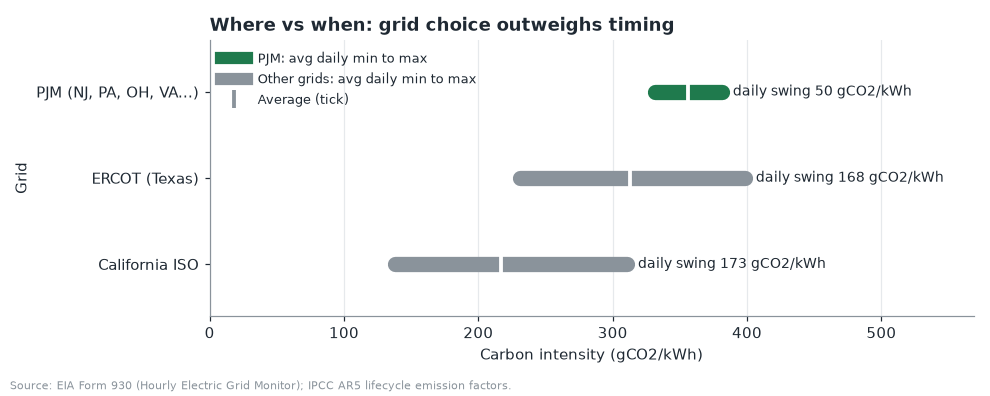
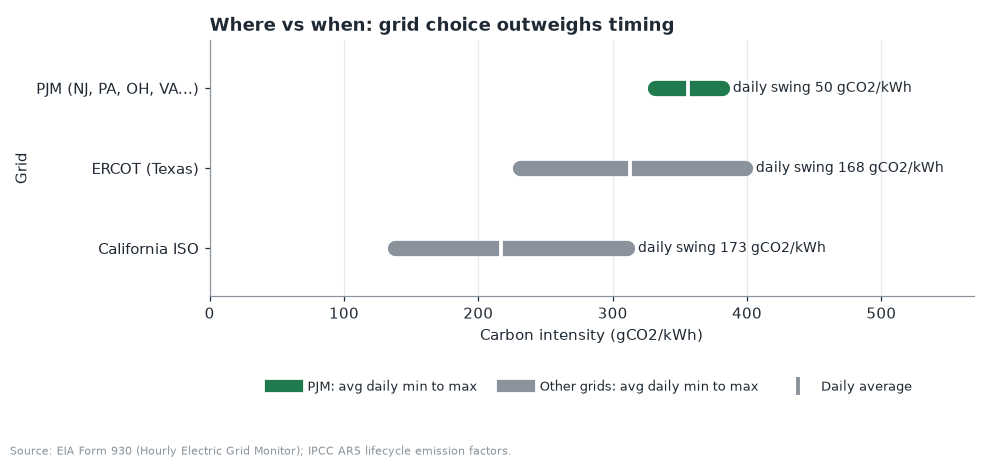
App polish: headline metrics, clearer where-vs-when takeaway and legend, live-mode limitation

diff --git a/app.py b/app.py
@@ -35,9 +35,71 @@ def show(fig):
     plt.close(fig)
 
 
+# ---------------------------------------------------------------- helpers
+HOUSEHOLDS = 10_000
+DEFAULT_APPLIANCES = pd.DataFrame([
+    {"Appliance": "EV charging", "Include": True, "kWh per run": 7.0, "Hours per run": 3, "Runs per week": 7},
+    {"Appliance": "Clothes dryer", "Include": True, "kWh per run": 3.0, "Hours per run": 1, "Runs per week": 3},
+    {"Appliance": "Dishwasher", "Include": True, "kWh per run": 1.5, "Hours per run": 2, "Runs per week": 5},
+])
+
+
+def window_mean(values, start, length):
+    return float(pd.Series(values).iloc[start:start + length].mean())
+
+
+@st.cache_data
+def test_period_saving(hours: int) -> float:
+    """Average gCO2/kWh saved on test days by running in the model's cleanest `hours`
+    window instead of at a typical (day-average) time, measured on actual intensity."""
+    saved = []
+    for _, d in preds.groupby("date_local"):
+        if len(d) < 23:
+            continue
+        d = d.sort_values("ts_local")
+        s = model.cleanest_window(d["forecast"].to_numpy(), hours)
+        if s is not None:
+            saved.append(d["intensity"].mean() - window_mean(d["intensity"].to_numpy(), s, hours))
+    return float(sum(saved) / len(saved)) if saved else 0.0
+
+
+def yearly_tonnes(kwh: float, hours: int, runs_per_week: float) -> float:
+    """Tonnes CO2/year saved by HOUSEHOLDS homes running this appliance in its cleanest window."""
+    return kwh * test_period_saving(hours) * runs_per_week * 52 * HOUSEHOLDS / 1e6  # g -> tonnes
+
+
 # ---------------------------------------------------------------- header
 st.title("CleanHour")
 st.caption("Forecasting hourly carbon intensity on the PJM grid, the grid that serves Princeton, NJ.")
+
+try:
+    bundle, metrics, importance, preds = artifacts()
+except Exception:
+    st.error("Model files are missing. Run `python data.py` and then `python model.py`, "
+             "then reload this page.")
+    st.stop()
+
+try:
+    stats = data.daily_spread_stats(grid())
+    pjm = stats.loc[data.BA_NAME["PJM"]]
+    ciso = stats.loc[data.BA_NAME["CISO"]]
+    grid_gap, timing_gain = pjm["mean"] - ciso["mean"], pjm["mean_drop"]
+except Exception:
+    stats = None
+default_tonnes = sum(yearly_tonnes(r["kWh per run"], r["Hours per run"], r["Runs per week"])
+                     for _, r in DEFAULT_APPLIANCES.iterrows())
+c1, c2, c3 = st.columns(3)
+pct = metrics["improvement_vs_yesterday_pct"]
+c1.metric("more accurate than yesterday", f"{pct:.0f}%",
+          help=f"{pct:.0f}% lower mean error than \"same hour yesterday\" on the 61-day test set.")
+c2.metric(f"tonnes CO2/yr if {HOUSEHOLDS:,} homes used it", f"{default_tonnes:,.0f}",
+          help=f"{default_tonnes:,.0f} tonnes CO2/yr if {HOUSEHOLDS:,} Princeton homes used it "
+               "with the default appliances below.")
+if stats is not None and timing_gain > 0:
+    ratio = grid_gap / timing_gain
+    c3.metric("grid choice vs timing in NJ", f"{ratio:.0f}x",
+              help=f"Grid choice matters {ratio:.0f}x more than timing in NJ: switching to California's "
+                   f"grid saves about {grid_gap:.0f} gCO2/kWh, the cleanest PJM hour about {timing_gain:.0f}.")
 
 st.subheader("Why it matters")
 st.markdown(
@@ -49,13 +111,6 @@ st.markdown(
     "generation by fuel; IPCC AR5 lifecycle emission factors.</small>",
     unsafe_allow_html=True,
 )
-
-try:
-    bundle, metrics, importance, preds = artifacts()
-except Exception:
-    st.error("Model files are missing. Run `python data.py` and then `python model.py`, "
-             "then reload this page.")
-    st.stop()
 
 
 # ---------------------------------------------------------------- day picker
@@ -116,33 +171,6 @@ if not is_live and "actual" in day:
 
 
 # ---------------------------------------------------------------- scheduler
-HOUSEHOLDS = 10_000
-DEFAULT_APPLIANCES = pd.DataFrame([
-    {"Appliance": "EV charging", "Include": True, "kWh per run": 7.0, "Hours per run": 3, "Runs per week": 7},
-    {"Appliance": "Clothes dryer", "Include": True, "kWh per run": 3.0, "Hours per run": 1, "Runs per week": 3},
-    {"Appliance": "Dishwasher", "Include": True, "kWh per run": 1.5, "Hours per run": 2, "Runs per week": 5},
-])
-
-
-def window_mean(values, start, length):
-    return float(pd.Series(values).iloc[start:start + length].mean())
-
-
-@st.cache_data
-def test_period_saving(hours: int) -> float:
-    """Average gCO2/kWh saved on test days by running in the model's cleanest `hours`
-    window instead of at a typical (day-average) time, measured on actual intensity."""
-    saved = []
-    for _, d in preds.groupby("date_local"):
-        if len(d) < 23:
-            continue
-        d = d.sort_values("ts_local")
-        s = model.cleanest_window(d["forecast"].to_numpy(), hours)
-        if s is not None:
-            saved.append(d["intensity"].mean() - window_mean(d["intensity"].to_numpy(), s, hours))
-    return float(sum(saved) / len(saved)) if saved else 0.0
-
-
 st.divider()
 st.subheader("Appliance scheduler")
 st.markdown("Pick your appliances and edit the numbers. Each one is scheduled into its cleanest "
@@ -183,7 +211,7 @@ try:
             "Saved vs dirtiest time (kg)": round(kwh * (worst - at) / 1000, 2),
             "Saved vs typical time (kg)": round(kwh * (typical - at) / 1000, 2),
         })
-        yearly_t += kwh * test_period_saving(hours) * runs * 52 * HOUSEHOLDS / 1e6  # g -> tonnes
+        yearly_t += yearly_tonnes(kwh, hours, runs)
     if skipped:
         st.warning("Skipped rows with missing or out-of-range numbers: " + ", ".join(skipped)
                    + ". Use kWh above 0 and 1 to 12 hours.")
@@ -209,16 +237,13 @@ except Exception:
 st.divider()
 st.subheader("Where vs when")
 try:
-    stats = data.daily_spread_stats(grid())
-    pjm = stats.loc[data.BA_NAME["PJM"]]
-    ciso = stats.loc[data.BA_NAME["CISO"]]
-    erco = stats.loc[data.BA_NAME["ERCO"]]
+    if stats is None:
+        raise ValueError("no grid stats")
     show(charts.spread_chart(stats))
     st.markdown(
-        f"**Takeaway:** in PJM, picking the cleanest hour beats a typical hour by only "
-        f"{pjm['mean_drop']:.0f} gCO2/kWh on an average day, while California's grid averages "
-        f"{pjm['mean'] - ciso['mean']:.0f} lower and even Texas's averages {pjm['mean'] - erco['mean']:.0f} "
-        "lower. For New Jersey, which grid you are on matters more than when you plug in.")
+        f"**Takeaway:** In PJM, picking the cleanest hour saves about {timing_gain:.0f} gCO2/kWh. "
+        f"Switching to California's grid would save about {grid_gap:.0f}. "
+        "For New Jersey, a cleaner grid matters more than better timing.")
 except Exception:
     st.warning("The grid comparison data is unavailable. Run `python data.py` to rebuild it.")
 
@@ -256,6 +281,8 @@ st.markdown(
     "- Average, not marginal, intensity: the plant that actually responds to your extra load "
     "(usually gas) can be dirtier than the average.\n"
     "- Backtests use actual weather as a stand-in for weather forecasts, so they are somewhat "
-    "optimistic. The live Tomorrow mode uses a real forecast and EIA data that can lag a day.\n"
+    "optimistic.\n"
+    "- Live mode uses EIA data that lags about a day, so tomorrow's forecast is less certain than "
+    "the backtest.\n"
     "- Emission factors are IPCC lifecycle medians; \"other\" and unknown fuels are assumed gas-like."
 )

diff --git a/charts.py b/charts.py
@@ -120,7 +120,8 @@ def spread_chart(stats: pd.DataFrame, focus: str = "PJM"):
     ax.legend(handles=[
         Line2D([], [], color=GREEN, lw=8, label=f"{focus}: avg daily min to max"),
         Line2D([], [], color=GRAY, lw=8, label="Other grids: avg daily min to max"),
-        Line2D([], [], color=GRAY, marker="|", ls="", ms=12, mew=2.5, label="Average (tick)"),
-    ], loc="upper left", fontsize=8.5)
+        Line2D([], [], color=GRAY, marker="|", ls="", ms=12, mew=2.5, label="Daily average"),
+    ], loc="upper center", bbox_to_anchor=(0.5, -0.28), ncol=3, fontsize=8.5)
+    fig.set_size_inches(9, 4.2)
     return _finish(fig, ax, "Where vs when: grid choice outweighs timing",
                    "Carbon intensity (gCO2/kWh)", "Grid", SRC_EIA)
